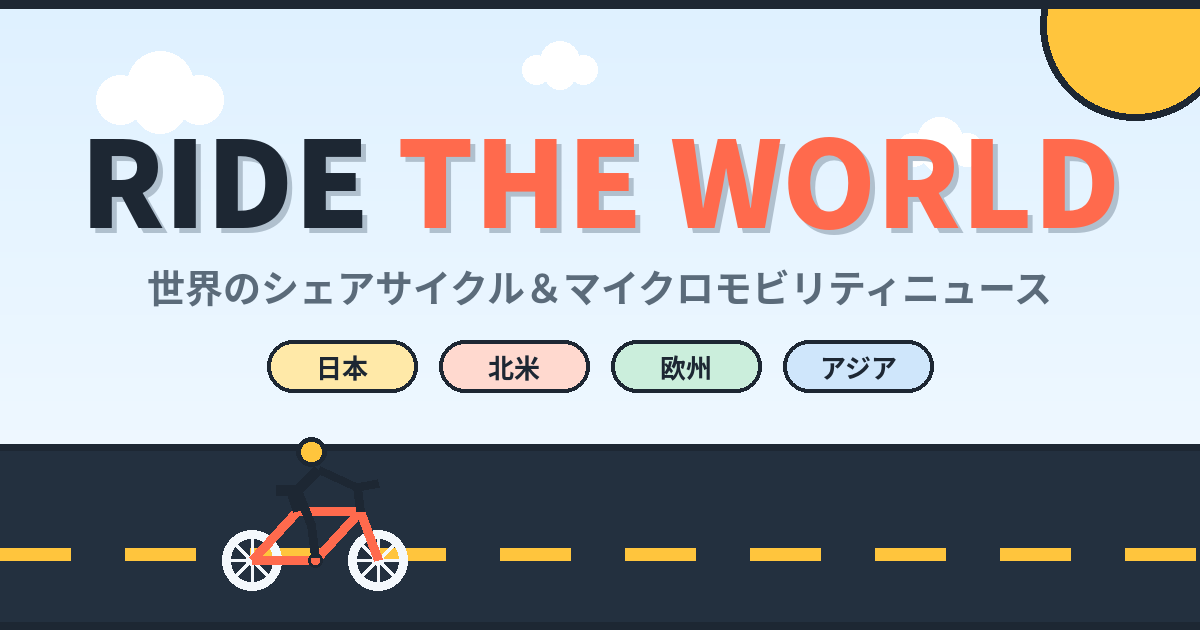
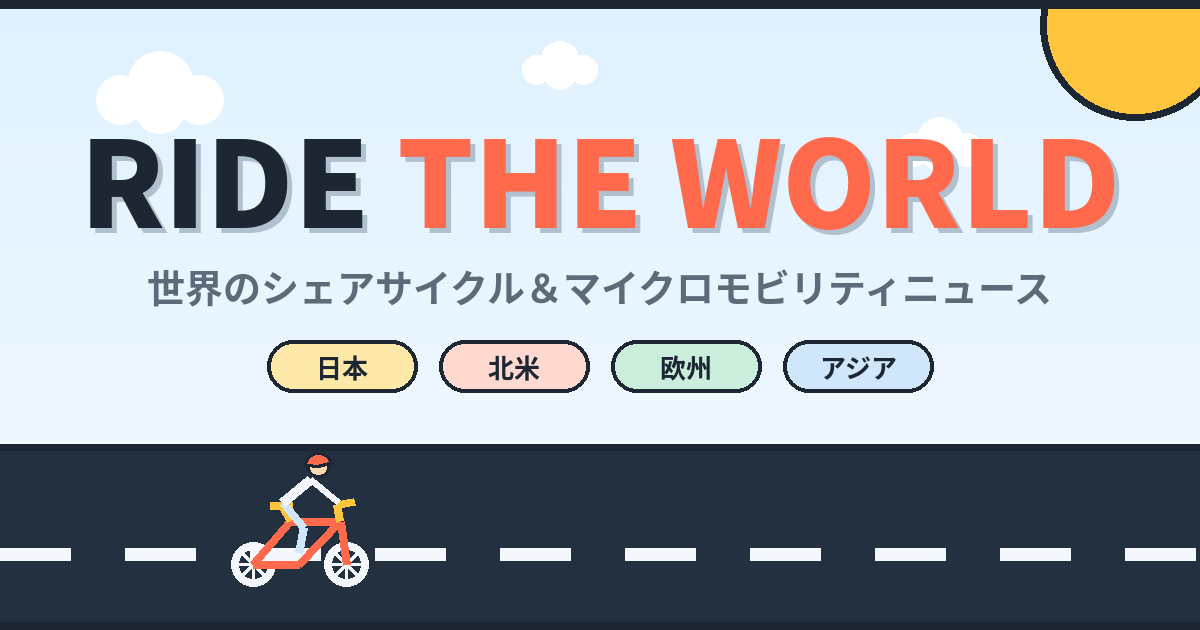
Update bike rider

diff --git a/index.html b/index.html
@@ -86,11 +86,11 @@ header{padding:26px 0 8px}
   border-top:var(--border);border-bottom:var(--border);
   overflow:hidden;
 }
-.road-inner{position:relative;height:120px}
+.road-inner{position:relative;height:128px}
 .lane-line{
   position:absolute;left:0;right:0;top:50%;height:6px;transform:translateY(-50%);
-  background:repeating-linear-gradient(90deg,var(--lane) 0 46px,transparent 46px 84px);
-  animation:laneMove 1.2s linear infinite;opacity:.95;
+  background:repeating-linear-gradient(90deg,#F4F8FC 0 46px,transparent 46px 84px);
+  animation:laneMove 1.2s linear infinite;opacity:.9;
 }
 @keyframes laneMove{from{background-position:0 0}to{background-position:-84px 0}}
 .ticker{
@@ -102,7 +102,7 @@ header{padding:26px 0 8px}
 .ticker-track .star{color:var(--lane)}
 @keyframes tick{from{transform:translateX(0)}to{transform:translateX(-100%)}}
 .rider{
-  position:absolute;bottom:10px;left:-140px;width:118px;
+  position:absolute;bottom:8px;left:-140px;width:110px;
   animation:ride 17s linear infinite;
 }
 .rider svg{display:block;width:100%;height:auto}
@@ -251,7 +251,7 @@ footer .frow{display:flex;justify-content:space-between;align-items:center;gap:1
 footer .en{font-size:20px;font-weight:800;color:#fff}
 footer small{font-size:12px;font-weight:600}
 footer .flane{height:6px;margin-top:22px;border-radius:4px;
-  background:repeating-linear-gradient(90deg,var(--lane) 0 40px,transparent 40px 74px)}
+  background:repeating-linear-gradient(90deg,#F4F8FC 0 40px,transparent 40px 74px);opacity:.85}
 
 @media (prefers-reduced-motion: reduce){
   .lane-line,.ticker-track,.rider,.wheel,.bob,.date-badge .dot{animation:none}
@@ -291,13 +291,22 @@ footer .flane{height:6px;margin-top:22px;border-radius:4px;
     <div class="ticker"><div class="ticker-track" id="ticker-track"></div></div>
     <div class="lane-line"></div>
     <div class="rider" aria-hidden="true">
-      <svg viewBox="0 0 120 70" xmlns="http://www.w3.org/2000/svg">
+      <svg viewBox="0 -24 120 96" xmlns="http://www.w3.org/2000/svg">
         <g class="bob">
-          <path d="M28 52 L52 24 L88 52 M52 24 L84 24 M28 52 L58 52 L84 24 M84 24 L88 52" fill="none" stroke="#FF6A4D" stroke-width="4" stroke-linecap="round" stroke-linejoin="round"/>
-          <path d="M84 24 L82 14 L92 12" fill="none" stroke="#23303F" stroke-width="4" stroke-linecap="round"/>
-          <path d="M52 24 L46 15 L38 15" fill="none" stroke="#23303F" stroke-width="4" stroke-linecap="round"/>
-          <circle cx="60" cy="4" r="6.5" fill="#FFC53D" stroke="#23303F" stroke-width="3"/>
-          <path d="M60 11 L66 26 L58 40 M66 26 L82 15" fill="none" stroke="#23303F" stroke-width="4.5" stroke-linecap="round" stroke-linejoin="round"/>
+          <!-- frame -->
+          <path d="M28 52 L52 24 L84 24 M28 52 L58 52 L84 24 M84 24 L88 52" fill="none" stroke="#FF6A4D" stroke-width="4.5" stroke-linecap="round" stroke-linejoin="round"/>
+          <!-- handlebar -->
+          <path d="M84 24 L82 13 L93 11" fill="none" stroke="#FFC53D" stroke-width="4.5" stroke-linecap="round"/>
+          <!-- seat -->
+          <path d="M52 24 L47 15 M39 14 L53 14" fill="none" stroke="#FFC53D" stroke-width="4.5" stroke-linecap="round"/>
+          <!-- rider: legs -->
+          <path d="M47 12 L60 28 L57 45" fill="none" stroke="#CFE6FB" stroke-width="5.5" stroke-linecap="round" stroke-linejoin="round"/>
+          <!-- rider: torso + arm -->
+          <path d="M47 12 L65 -3" fill="none" stroke="#F4F8FC" stroke-width="6.5" stroke-linecap="round"/>
+          <path d="M65 -3 L83 12" fill="none" stroke="#F4F8FC" stroke-width="5" stroke-linecap="round"/>
+          <!-- head + helmet -->
+          <circle cx="70" cy="-11" r="7" fill="#FFD9B0" stroke="#1D2733" stroke-width="2.5"/>
+          <path d="M62.5 -12.5 A 8 8 0 0 1 77.5 -13.5 L 79 -11.5 L 62.5 -10.5 Z" fill="#FF6A4D" stroke="#1D2733" stroke-width="2.5" stroke-linejoin="round"/>
         </g>
         <g class="wheel"><circle cx="28" cy="52" r="14" fill="none" stroke="#F4F8FC" stroke-width="4"/><path d="M28 40 V64 M16 52 H40 M20 44 L36 60 M36 44 L20 60" stroke="#F4F8FC" stroke-width="2"/></g>
         <g class="wheel"><circle cx="88" cy="52" r="14" fill="none" stroke="#F4F8FC" stroke-width="4"/><path d="M88 40 V64 M76 52 H100 M80 44 L96 60 M96 44 L80 60" stroke="#F4F8FC" stroke-width="2"/></g>
